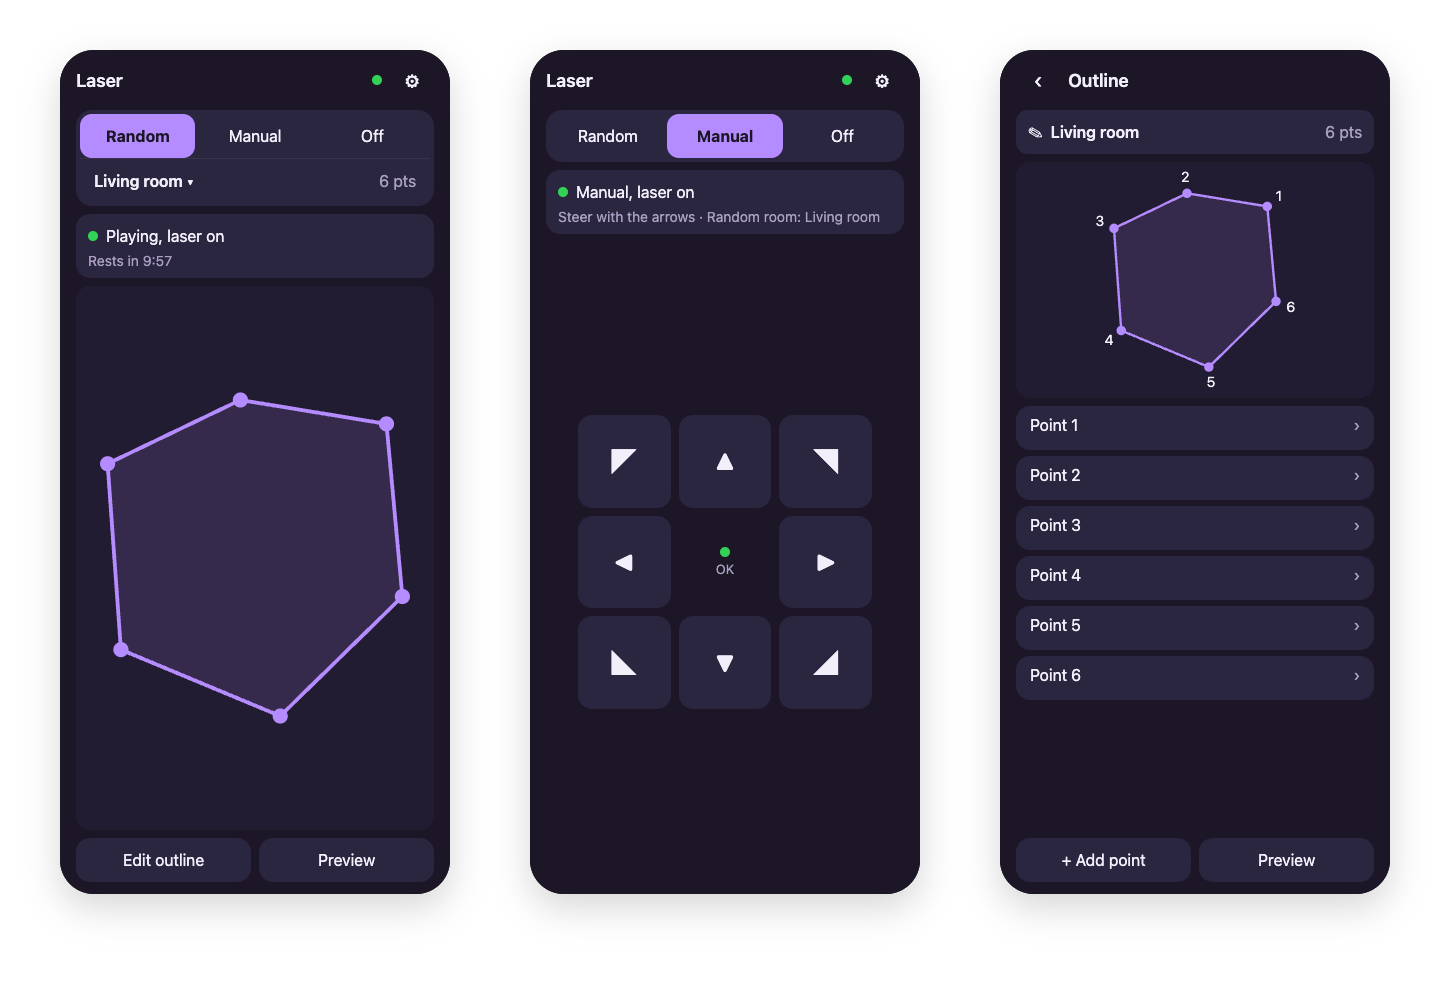
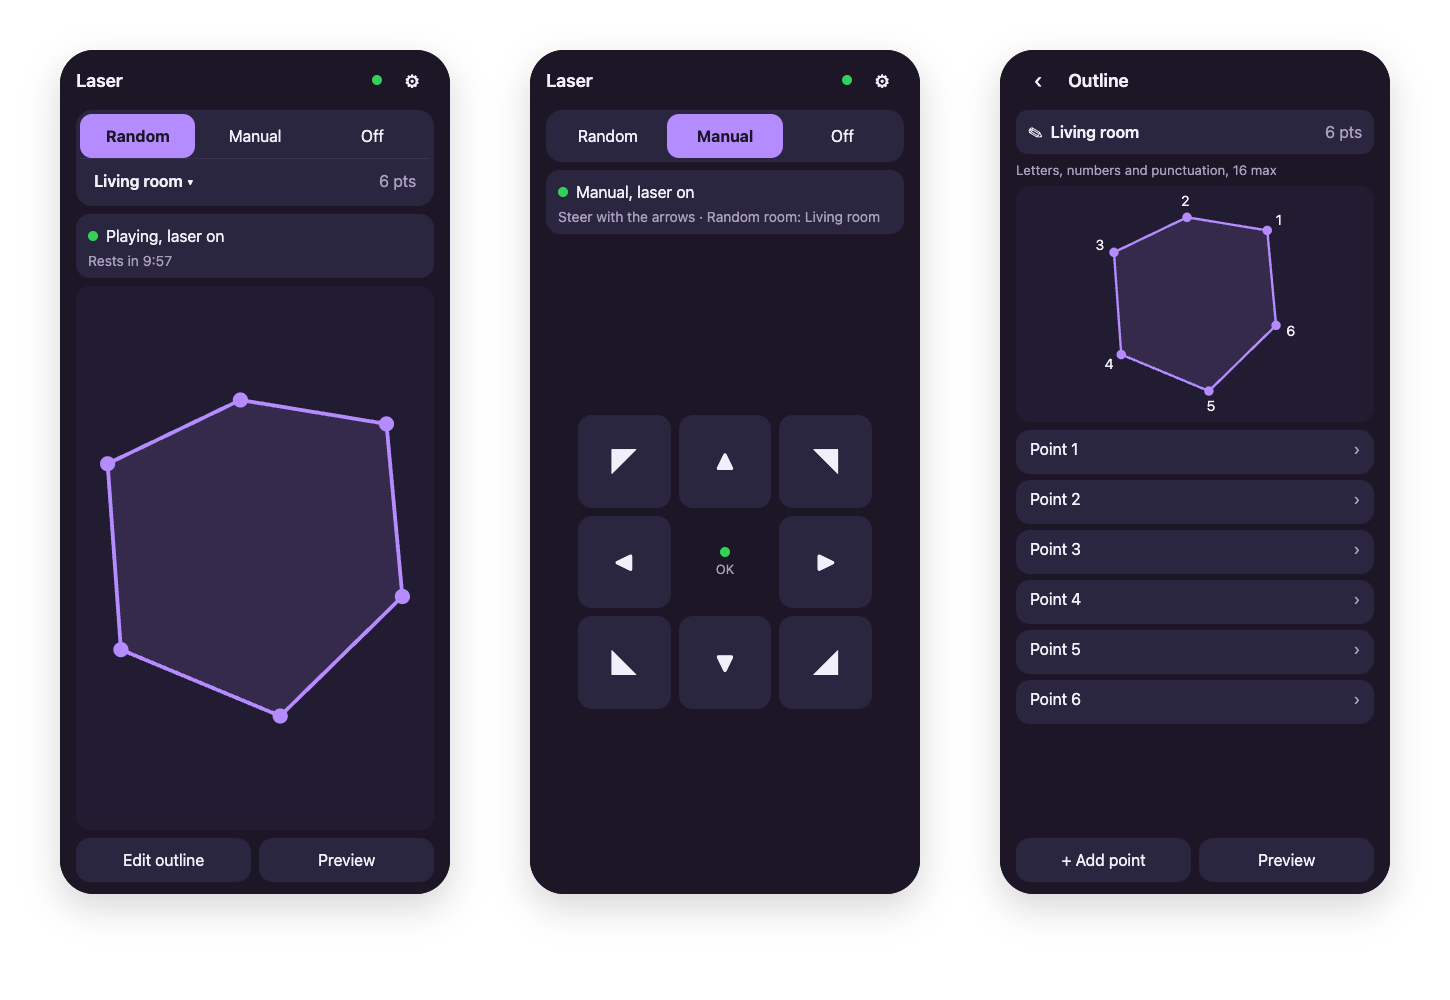
docs: list the audit's polish items and refresh screenshots

Changed region(s): [[0.6828, 0.155, 0.9621, 0.744]]

diff --git a/README.md b/README.md
@@ -123,6 +123,14 @@ Without a board, `cargo run --target aarch64-apple-darwin --no-default-features 
 - [x] Phone UI fixes: confirmed modes, connection state, per-mode home screen, save and delete confirmations, plain settings
 - [x] Replace the schematic with a WireViz diagram without the potentiometers and preview button
 - [ ] Version check so two phones editing one room cannot overwrite each other's points
+- [ ] D-pad usable by keyboard and screen reader
+- [ ] Settings sheet traps focus, Escape returns focus, room picker gets menu semantics, screen changes move focus
+- [ ] Sliders read in seconds instead of microseconds, steppers name what they change
+- [ ] Point editor sketch holds its zoom while aiming, Insert keeps its space at 16 points and on new points
+- [ ] Long room names stay on one line, point count moves out of the name box, " · " spacing holds in the rest line
+- [ ] Pause slider easier to set between 0.9 and 2 s, closing the sheet mid-drag does not apply, check iOS thumb snap-back on poll
+- [ ] Travel-edge feedback in Manual, laser dot and rest dimming on the home sketch
+- [ ] Captive portal probes complete, HTTP pool survives the first join, fallbacks for `replaceChildren` and `inert` on old webviews
 - [ ] Bench checklist, once a board is on hand:
   - [ ] Confirm the servo VCC source, and move the servos to 5V if they run on 3V3
   - [ ] Boots into Random with the AP up, the page loads, the D-pad takes over, and the mode buttons work
